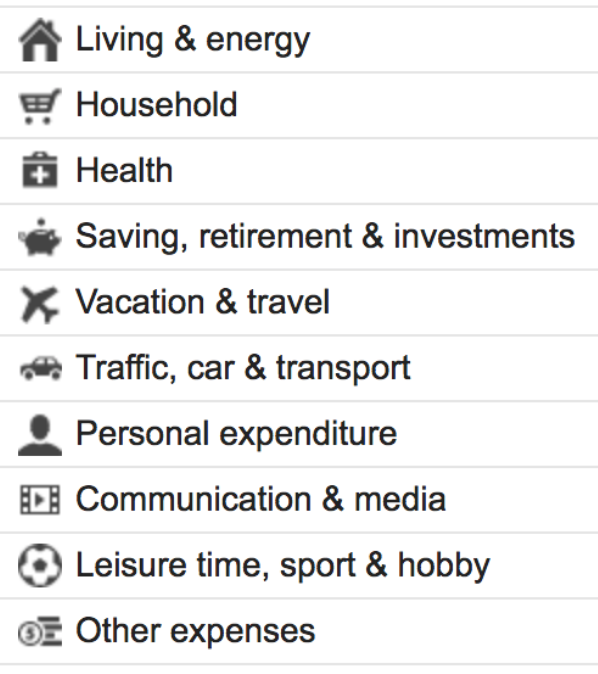
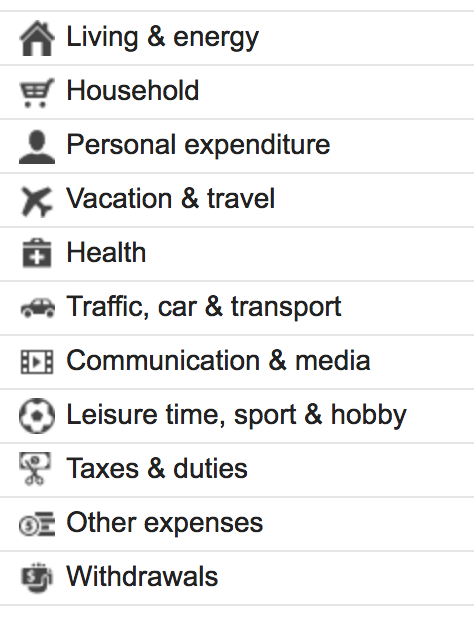
merge work from January 12 (#33)
* txs auto checkin

* txs auto checkin

* txs auto checkin

* update categories icons screenshot

* txs auto checkin

Changed region(s): [[0.0, 0.0, 1.0, 0.9838]]

diff --git a/02_Appendices/AppendixA_FinacialData.tex b/02_Appendices/AppendixA_FinacialData.tex
@@ -48,7 +48,6 @@ TODO: LOAD NEW UPDATED DATA!
 		    19/12/16 & UTUNERS.COM/BILL          UTUNERS.COM &       & CHF   & 38.4  &       & Communication \& media & Multimedia (music, video \& apps) \\
 		    19/12/16 & UTUNERS.COM/BILL          UTUNERS.COM &       & CHF   & 2.3   &       & Communication \& media & Multimedia (music, video \& apps) \\
 		    19/12/16 & AMAZING DE Marketplace    800-800-8000 &       & CHF   & 53.59 &       & Leisure time, sport \& hobby & Toys and hobby articles \\
-		    19/12/16 & SALARY PAYMENT & CH00 1111 2222 3333 4444 A & CHF   & 4500  &       & Income \& credits & Salary and sideline \\
 		    16/12/16 & Erste Bank Someplace CARD 12345678-0 1234 & CH00 1111 2222 3333 4444 A & CHF   & 454.24 & WITHDRAWAL ATM & Withdrawals & Bancomat \\
 		    14/12/16 & SUBWAY                   RANDOMCITY &       & CHF   & 8.95  &       & Personal expenditure & Food (snacks, restaurants and bars) \\
 		    14/12/16 & ANY KEBAB            RANDOMCITY &       & CHF   & 2.91  &       & Personal expenditure & Food (snacks, restaurants and bars) \\
@@ -68,7 +67,6 @@ TODO: LOAD NEW UPDATED DATA!
 		    09/12/16 & Stability CarSharing      Cloudcern 7 &       & CHF   & 24.9  &       & Vacation \& travel & Travel and flight costs \\
 		    09/12/16 & Coop-1234 Anyvillage CARD 12345678-0 1234 & CH00 1111 2222 3333 4444 A & CHF   & 5     & PAYMENT MAESTRO & Household & Food and beverage \\
 		    08/12/16 & Canteen Restaurant Office      MyCity &       & CHF   & 12.9  &       & Personal expenditure & Food (snacks, restaurants and bars) \\
-		    08/12/16 & Marmor AG - eCommerce     NeighbourCity &       & CHF   & 35.4  &       & Income \& credits & Refunds \\
 		    08/12/16 & TORGUARD                 8002008002 &       & CHF   & 9.1   &       & Communication \& media & Film, photo, electronic devices and accessories \\
 		    08/12/16 & GEEKHUB.COM  8PRK4        4144414441 &       & CHF   & 9.79  &       & Communication \& media & Film, photo, electronic devices and accessories \\
 		    08/12/16 & 8001 MYCITY SHOPVILLE CARD 14873883-0 1908 & CH00 1111 2222 3333 4444 A & CHF   & 148.2 & WITHDRAWAL ATM & Withdrawals & Bancomat \\
@@ -112,7 +110,6 @@ TODO: LOAD NEW UPDATED DATA!
 		    21/11/16 & SWEATCOM SCHWEIZ AG 3050 CAPITALCITY & CH00 1111 2222 3333 4444 A & CHF   & 167.4 & INTERNET/PHONE & Communication \& media & Telephone,  Internet and TV \\
 		    21/11/16 & Migros MM Anyvillage CARD 12345678-0 1234 & CH00 1111 2222 3333 4444 A & CHF   & 28.95 & PAYMENT MAESTRO & Household & Food and beverage \\
 		    18/11/16 & Randomplace Take Away     MyCity &       & CHF   & 10.6  &       & Personal expenditure & Food (snacks, restaurants and bars) \\
-		    18/11/16 & SALARY PAYMENT & CH00 1111 2222 3333 4444 A & CHF   & 4500  &       & Income \& credits & Salary and sideline \\
 		    17/11/16 & Migros MM Anyvillage    Anyvillage &       & CHF   & 13.75 &       & Household & Food and beverage \\
 		    17/11/16 & Coop-1234 Anyvillage    Anyvillage &       & CHF   & 8.2   &       & Household & Food and beverage \\
 		    16/11/16 & Canteen Restaurant Office      MyCity &       & CHF   & 10.8  &       & Personal expenditure & Food (snacks, restaurants and bars) \\
@@ -149,9 +146,6 @@ TODO: LOAD NEW UPDATED DATA!
 		    31/10/16 & SALDO TRANSACTION EXPENSES & CH00 1111 2222 3333 4444 A & CHF   & 0.2   &       & Other expenses & Banking services and charges \\
 		    31/10/16 & Migros MM Anyvillage CARD 12345678-0 1234 & CH00 1111 2222 3333 4444 A & CHF   & 43.4  & PAYMENT MAESTRO & Household & Food and beverage \\
 		    27/10/16 & GREENPEACE SCHWEIZ MYCITY & CH00 1111 2222 3333 4444 A & CHF   & 81    & GREEPNPEACE DONATION & Personal expenditure & Donations \\
-		    27/10/16 & FRIENDS NAME XYZ & CH00 1111 2222 3333 4444 A & CHF   & 91.53 & PAYBACK FRIEND XYZ & Income \& credits & Refunds \\
-		    27/10/16 & FRIENDS NAME XYZ & CH00 1111 2222 3333 4444 A & CHF   & 13.8  & PAYBACK FRIEND XYZ & Income \& credits & Refunds \\
-		    27/10/16 & FRIENDS NAME XYZ & CH00 1111 2222 3333 4444 A & CHF   & 56.2  & PAYBACK FRIEND XYZ & Income \& credits & Refunds \\
 		    27/10/16 & Coop-4455 Anyvillage CARD 12345678-0 1234 & CH00 1111 2222 3333 4444 A & CHF   & 18.55 & PAYMENT MAESTRO & Household & Food and beverage \\
 		    27/10/16 & Migros MM Anyvillage CARD 12345678-0 1234 & CH00 1111 2222 3333 4444 A & CHF   & 85.45 & PAYMENT MAESTRO & Household & Food and beverage \\
 		    25/10/16 & WORLD DUTY FREE WHISKINGTONWHISKINGTON &       & CHF   & 44.72 &       & Personal expenditure & Miscellaneous \\
@@ -178,7 +172,6 @@ TODO: LOAD NEW UPDATED DATA!
 		    19/10/16 & Coop-2238 Wint. St       MusterCity &       & CHF   & 15.55 &       & Household & Food and beverage \\
 		    19/10/16 & minitec Milkyway (Online) MyCity &       & CHF   & 91.44 &       & Communication \& media & Film, photo, electronic devices and accessories \\
 		    19/10/16 & PUNCHSTARTER I10 REINVE   9292929292 &       & CHF   & 71.26 &       & Leisure time, sport \& hobby & Toys and hobby articles \\
-		    19/10/16 & SALARY PAYMENT & CH00 1111 2222 3333 4444 A & CHF   & 4500  &       & Income \& credits & Salary and sideline \\
 		    19/10/16 & RANDOM FRIENDS ADRESS XYZ & CH00 1111 2222 3333 4444 A & CHF   & 278.9 & FLIGHT TICKET & Vacation \& travel & Miscellaneous \\
 		    19/10/16 & ONE CLUB PROWGE CARD 12345678-0 1234 & CH00 1111 2222 3333 4444 A & CHF   & 16.02 & PAYMENT MAESTRO & Personal expenditure & Food (snacks, restaurants and bars) \\
 		    19/10/16 & ONE CLUB PROWGE CARD 12345678-0 1234 & CH00 1111 2222 3333 4444 A & CHF   & 50.45 & PAYMENT MAESTRO & Personal expenditure & Food (snacks, restaurants and bars) \\
@@ -196,7 +189,6 @@ TODO: LOAD NEW UPDATED DATA!
 		    13/10/16 & Canteen Restaurant Office      MyCity &       & CHF   & 8.6   &       & Personal expenditure & Food (snacks, restaurants and bars) \\
 		    12/10/16 & Canteen Restaurant Office      MyCity &       & CHF   & 14.5  &       & Personal expenditure & Food (snacks, restaurants and bars) \\
 		    11/10/16 & Canteen Restaurant Office      MyCity &       & CHF   & 14.9  &       & Personal expenditure & Food (snacks, restaurants and bars) \\
-		    11/10/16 & CBA*ACRONIS              CLEVERBRIDGE. &       & CHF   & 34.75 &       & Income \& credits & Refunds \\
 		    11/10/16 & RANDOM FRIENDS ADRESS XYZ & CH00 1111 2222 3333 4444 A & CHF   & 93.1  & PAYBACK FRIEND XYZ & Other expenses & Repayments \\
 		    10/10/16 & Migros M Hauptbahnhof    MyCity &       & CHF   & 3.8   &       & Household & Food and beverage \\
 		    10/10/16 & Migros MM Downton Slipa   Downton &       & CHF   & 4.7   &       & Household & Food and beverage \\
@@ -207,7 +199,6 @@ TODO: LOAD NEW UPDATED DATA!
 		    10/10/16 & CBA*ACRONIS              CLEVERBRIDGE. &       & CHF   & 36.68 &       & Communication \& media & Software \\
 		    10/10/16 & PUNCHSTARTERCOM           9292929292 &       & CHF   & 42.15 &       & Leisure time, sport \& hobby & Toys and hobby articles \\
 		    10/10/16 & SEEBAY.CH/CC               888-777-6666 &       & CHF   & 5.58  &       & Taxes \& duties & Fees \\
-		    10/10/16 & FRIENDS NAME XYZ & CH00 1111 2222 3333 4444 A & CHF   & 37.6  & PAYBACK FRIEND XYZ & Income \& credits & Refunds \\
 		    10/10/16 & Coop-4455 Anyvillage CARD 12345678-0 1234 & CH00 1111 2222 3333 4444 A & CHF   & 30.95 & PAYMENT MAESTRO & Household & Food and beverage \\
 		    10/10/16 & Migros MM Anyvillage CARD 12345678-0 1234 & CH00 1111 2222 3333 4444 A & CHF   & 63.7  & PAYMENT MAESTRO & Household & Food and beverage \\
 		    07/10/16 & Randomplace Take Away     MyCity &       & CHF   & 10    &       & Personal expenditure & Food (snacks, restaurants and bars) \\
@@ -231,7 +222,6 @@ TODO: LOAD NEW UPDATED DATA!
 		    30/09/16 & Twint               MyCity &       & CHF   & 15.5  &       & Withdrawals & Bancomat \\
 		    30/09/16 & SALDO TRANSACTION EXPENSES & CH55 4444 6666 3333 7777 P & CHF   & 0.3   &       & Other expenses & Banking services and charges \\
 		    29/09/16 & Canteen Restaurant Office      MyCity &       & CHF   & 8.35  &       & Personal expenditure & Food (snacks, restaurants and bars) \\
-		    29/09/16 & REPAYMENT AG DIFFERENTSTREET 12 1234 NOPLACE & CH00 1111 2222 3333 4444 A & CHF   & 556.6 & PAYBACK EXPENSES & Income \& credits & Refunds \\
 		    29/09/16 & Marmor AG - 228 CARD 12345678-0 1234 & CH00 1111 2222 3333 4444 A & CHF   & 75    & PAYMENT MAESTRO & Personal expenditure & Clothing, shoes and accessories \\
 		    28/09/16 & Canteen Restaurant Office      MyCity &       & CHF   & 7.95  &       & Personal expenditure & Food (snacks, restaurants and bars) \\
 		    28/09/16 & Coop-1234 Anyvillage    Anyvillage &       & CHF   & 24.8  &       & Household & Food and beverage \\
@@ -260,14 +250,12 @@ TODO: LOAD NEW UPDATED DATA!
 		    19/09/16 & Migros M Hauptbahnhof    MyCity &       & CHF   & 5.75  &       & Household & Food and beverage \\
 		    19/09/16 & Coop-1234 Anyvillage    Anyvillage &       & CHF   & 32.95 &       & Household & Food and beverage \\
 		    19/09/16 & PUNCHSTARTER THE WORLDS   9292929292 &       & CHF   & 49.89 &       & Leisure time, sport \& hobby & Toys and hobby articles \\
-		    19/09/16 & SALARY PAYMENT & CH00 1111 2222 3333 4444 A & CHF   & 4500  &       & Income \& credits & Salary and sideline \\
 		    19/09/16 & Migros MM Anyvillage CARD 12345678-0 1234 & CH00 1111 2222 3333 4444 A & CHF   & 45.8  & PAYMENT MAESTRO & Household & Food and beverage \\
 		    19/09/16 & Restaurant Freihof CARD 12345678-0 1234 & CH00 1111 2222 3333 4444 A & CHF   & 24.7  & PAYMENT MAESTRO & Personal expenditure & Food (snacks, restaurants and bars) \\
 		    16/09/16 & Canteen Restaurant Office      MyCity &       & CHF   & 13.1  &       & Personal expenditure & Food (snacks, restaurants and bars) \\
 		    16/09/16 & Migros M Otherplace   MyCity &       & CHF   & 11    &       & Household & Food and beverage \\
 		    15/09/16 & Canteen Restaurant Office      MyCity &       & CHF   & 11.6  &       & Personal expenditure & Food (snacks, restaurants and bars) \\
 		    14/09/16 & Canteen Restaurant Office      MyCity &       & CHF   & 13.05 &       & Personal expenditure & Food (snacks, restaurants and bars) \\
-		    14/09/16 & RANDOM FRIENDS ADRESS XYZ & CH00 1111 2222 3333 4444 A & CHF   & 253.66 & SEEBAY & Income \& credits & Sale of property \\
 		    13/09/16 & Canteen Restaurant Office      MyCity &       & CHF   & 17    &       & Personal expenditure & Food (snacks, restaurants and bars) \\
 		    12/09/16 & Migros M Hauptbahnhof    MyCity &       & CHF   & 4.9   &       & Household & Food and beverage \\
 		    12/09/16 & Coop-1177 BS Bahnh       NeighbourCity &       & CHF   & 19.05 &       & Household & Food and beverage \\
@@ -325,7 +313,6 @@ TODO: LOAD NEW UPDATED DATA!
 		    22/08/16 & Migros MM Anyvillage CARD 12345678-0 1234 & CH00 1111 2222 3333 4444 A & CHF   & 70.95 & PAYMENT MAESTRO & Household & Food and beverage \\
 		    22/08/16 & Coop-4455 Anyvillage CARD 12345678-0 1234 & CH00 1111 2222 3333 4444 A & CHF   & 32.4  & PAYMENT MAESTRO & Household & Food and beverage \\
 		    19/08/16 & Canteen Restaurant Office      MyCity &       & CHF   & 11.4  &       & Personal expenditure & Food (snacks, restaurants and bars) \\
-		    19/08/16 & SALARY PAYMENT & CH00 1111 2222 3333 4444 A & CHF   & 4500  &       & Income \& credits & Salary and sideline \\
 		    18/08/16 & Canteen Restaurant Office      MyCity &       & CHF   & 5.95  &       & Personal expenditure & Food (snacks, restaurants and bars) \\
 		    17/08/16 & Canteen Restaurant Office      MyCity &       & CHF   & 10.1  &       & Personal expenditure & Food (snacks, restaurants and bars) \\
 		    17/08/16 & D-Vino Weinbars AG       MyCity &       & CHF   & 36.2  &       & Personal expenditure & Food (snacks, restaurants and bars) \\
@@ -344,17 +331,14 @@ TODO: LOAD NEW UPDATED DATA!
 		    08/08/16 & Stability CarSharing      Cloudcern 7 &       & CHF   & 25.1  &       & Vacation \& travel & Travel and flight costs \\
 		    08/08/16 & GEEKHUB.COM  8PRK4        4141414141 &       & CHF   & 6.1   &       & Communication \& media & Film, photo, electronic devices and accessories \\
 		    08/08/16 & AE COM WEB PURCH         HOOFDOORP &       & CHF   & 297.52 &       & Personal expenditure & Clothing, shoes and accessories \\
-		    08/08/16 & RANDOM PERSON ANYSTREET 15 0000 NOPLACE & CH00 1111 2222 3333 4444 A & CHF   & 126   & SEEBAY & Income \& credits & Sale of property \\
 		    08/08/16 & BANK AG (CREDIT CARDS) SOMESTREET 11 9000 ACITY & CH00 1111 2222 3333 4444 A & CHF   & 638.5 & CREDIT CARD & Other expenses & Credit card invoice and fees \\
 		    08/08/16 & Coop-4455 Anyvillage CARD 12345678-0 1234 & CH00 1111 2222 3333 4444 A & CHF   & 35.8  & PAYMENT MAESTRO & Household & Food and beverage \\
 		    08/08/16 & Migros MM Anyvillage CARD 12345678-0 1234 & CH00 1111 2222 3333 4444 A & CHF   & 118.75 & PAYMENT MAESTRO & Household & Food and beverage \\
 		    08/08/16 & Restaurant Freihof CARD 12345678-0 1234 & CH00 1111 2222 3333 4444 A & CHF   & 21.6  & PAYMENT MAESTRO & Personal expenditure & Food (snacks, restaurants and bars) \\
 		    05/08/16 & Coop-1234 Anyvillage    Anyvillage &       & CHF   & 10    &       & Household & Food and beverage \\
 		    05/08/16 & Randomplace Take Away     MyCity &       & CHF   & 12.6  &       & Personal expenditure & Food (snacks, restaurants and bars) \\
-		    05/08/16 & CANTON TAX OFFICE DIRECT STATE TAXES MYCITY & CH00 1111 2222 3333 4444 A & CHF   & 271.8 & PAYBACK STATE TAXES & Income \& credits & Refunds \\
 		    05/08/16 & Winterlab Letzipark CARD 12345678-0 1234 & CH00 1111 2222 3333 4444 A & CHF   & 379.7 & PAYMENT MAESTRO & Health & Medical services  \\
 		    04/08/16 & Randomplace Take Away     MyCity &       & CHF   & 12.6  &       & Personal expenditure & Food (snacks, restaurants and bars) \\
-		    04/08/16 & AMAZING.DE PAYMENTS       AMAZING.DE &       & CHF   & 0.03  &       & Income \& credits & Refunds \\
 		    04/08/16 & MUNICIPAL ADMINISTRATION 0123 ANYPLACE & CH55 4444 6666 3333 7777 P & CHF   & 529.75 & STATE TAXES & Taxes \& duties & Community and cantonal tax \\
 		    03/08/16 & Randomplace Take Away     MyCity &       & CHF   & 9.2   &       & Personal expenditure & Food (snacks, restaurants and bars) \\
 		    03/08/16 & minitec Milkyway (Online) MyCity &       & CHF   & 25.38 &       & Communication \& media & Film, photo, electronic devices and accessories \\
@@ -383,7 +367,6 @@ TODO: LOAD NEW UPDATED DATA!
 		    20/07/16 & Migros MM Anyvillage CARD 12345678-0 1234 & CH00 1111 2222 3333 4444 A & CHF   & 37.8  & PAYMENT MAESTRO & Household & Food and beverage \\
 		    19/07/16 & Canteen Restaurant Office      MyCity &       & CHF   & 23.1  &       & Personal expenditure & Food (snacks, restaurants and bars) \\
 		    19/07/16 & DREAMGAMES.COM           404-012-1985 &       & CHF   & 4.2   &       & Leisure time, sport \& hobby & Going out, culture and cinema \\
-		    19/07/16 & SALARY PAYMENT & CH00 1111 2222 3333 4444 A & CHF   & 4500  &       & Income \& credits & Salary and sideline \\
 		    18/07/16 & Canteen Restaurant Office      MyCity &       & CHF   & 6.7   &       & Personal expenditure & Food (snacks, restaurants and bars) \\
 		    18/07/16 & Migros MM Anyvillage CARD 12345678-0 1234 & CH00 1111 2222 3333 4444 A & CHF   & 41.05 & PAYMENT MAESTRO & Household & Food and beverage \\
 		    15/07/16 & 8004 ZH-ALISPLACE CARD 12345678-0 1234 & CH00 1111 2222 3333 4444 A & CHF   & 194.4 & WITHDRAWAL ATM & Withdrawals & Bancomat \\
@@ -395,7 +378,6 @@ TODO: LOAD NEW UPDATED DATA!
 		    11/07/16 & Migros MM Anyvillage CARD 12345678-0 1234 & CH00 1111 2222 3333 4444 A & CHF   & 83.7  & PAYMENT MAESTRO & Household & Food and beverage \\
 		    08/07/16 & Canteen Restaurant Office      MyCity &       & CHF   & 11.5  &       & Personal expenditure & Food (snacks, restaurants and bars) \\
 		    08/07/16 & GEEKHUB.COM  8PRK4        4141414141 &       & CHF   & 8.27  &       & Communication \& media & Film, photo, electronic devices and accessories \\
-		    07/07/16 & PC COMPUTERS AG RAMSTREET 001 404 NO PLACE & CH00 1111 2222 3333 4444 A & CHF   & 619.9 & PAYBACK STORE XYZ & Income \& credits & Refunds \\
 		    07/07/16 & BANK AG (CREDIT CARDS) SOMESTREET 11 9000 ACITY & CH00 1111 2222 3333 4444 A & CHF   & 1718.5 & CREDIT CARD & Other expenses & Credit card invoice and fees \\
 		    06/07/16 & Coop-4073 Downton Sliho   Downton &       & CHF   & 3.85  &       & Household & Food and beverage \\
 		    05/07/16 & Canteen Restaurant Office      MyCity &       & CHF   & 17.1  &       & Personal expenditure & Food (snacks, restaurants and bars) \\
@@ -434,9 +416,7 @@ TODO: LOAD NEW UPDATED DATA!
 		    17/06/16 & UTUNERS.COM/BILL          UTUNERS.COM &       & CHF   & 9     &       & Communication \& media & Multimedia (music, video \& apps) \\
 		    17/06/16 & minitec Milkyway (Online) MyCity &       & CHF   & 27.99 &       & Communication \& media & Film, photo, electronic devices and accessories \\
 		    17/06/16 & DRI*HTC CORPORA          SHANNON, CO. &       & CHF   & 940.38 &       & Communication \& media & Film, photo, electronic devices and accessories \\
-		    17/06/16 & SALARY PAYMENT & CH00 1111 2222 3333 4444 A & CHF   & 4500  &       & Income \& credits & Salary and sideline \\
 		    16/06/16 & Migros M Hauptbahnhof    MyCity &       & CHF   & 7.6   &       & Household & Food and beverage \\
-		    16/06/16 & minitec Milkyway (Online) MyCity &       & CHF   & 748.97 &       & Income \& credits & Refunds \\
 		    16/06/16 & UPPER BV                  HELP.UPPER.COM &       & CHF   & 31.7  &       & Traffic, car \& transport & Public transport (tickets \& subscriptions) \\
 		    15/06/16 & Migros M Hauptbahnhof    MyCity &       & CHF   & 3.9   &       & Household & Food and beverage \\
 		    15/06/16 & Coop-4073 Downton Sliho   Downton &       & CHF   & 11    &       & Household & Food and beverage \\
@@ -450,7 +430,6 @@ TODO: LOAD NEW UPDATED DATA!
 		    09/06/16 & Migros MM Anyvillage CARD 12345678-0 1234 & CH00 1111 2222 3333 4444 A & CHF   & 18.35 & PAYMENT MAESTRO & Household & Food and beverage \\
 		    08/06/16 & Canteen Restaurant Office      MyCity &       & CHF   & 13    &       & Personal expenditure & Food (snacks, restaurants and bars) \\
 		    08/06/16 & Coop Uncommonstr. 55   MyCity &       & CHF   & 3.55  &       & Household & Food and beverage \\
-		    08/06/16 & PC COMPUTERS AG RAMSTREET 001 404 NO PLACE & CH00 1111 2222 3333 4444 A & CHF   & 19    & PAYBACK STORE XYZ & Income \& credits & Refunds \\
 		    07/06/16 & Randomplace Take Away     MyCity &       & CHF   & 10.2  &       & Personal expenditure & Food (snacks, restaurants and bars) \\
 		    07/06/16 & Coop Uncommonstr. 55   MyCity &       & CHF   & 4.6   &       & Household & Food and beverage \\
 		    07/06/16 & UTUNERS.COM/BILL          UTUNERS.COM &       & CHF   & 8.8   &       & Communication \& media & Multimedia (music, video \& apps) \\
@@ -458,7 +437,6 @@ TODO: LOAD NEW UPDATED DATA!
 		    06/06/16 & AMAZING.DE PAYMENTS       AMAZING.DE &       & CHF   & 20.63 &       & Leisure time, sport \& hobby & Miscellaneous \\
 		    06/06/16 & Uber BV                  help.upper.com &       & CHF   & 41.82 &       & Traffic, car \& transport & Public transport (tickets \& subscriptions) \\
 		    06/06/16 & FRIENDS NAME XYZ & CH00 1111 2222 3333 4444 A & CHF   & 182.1 & WEDDING GIFT & Personal expenditure & Gifts \\
-		    06/06/16 & HEALTH INSURANCE AG NUMVERSTREET 101 0101 PLACINGTON & CH00 1111 2222 3333 4444 A & CHF   & 49.6  & PAYBACK HEALTH INSURANCE & Income \& credits & Refunds \\
 		    06/06/16 & Migros MM Anyvillage CARD 12345678-0 1234 & CH00 1111 2222 3333 4444 A & CHF   & 54.85 & PAYMENT MAESTRO & Household & Food and beverage \\
 		    03/06/16 & Canteen Restaurant Office      MyCity &       & CHF   & 11.1  &       & Personal expenditure & Food (snacks, restaurants and bars) \\
 		    02/06/16 & Migros M Hauptbahnhof    MyCity &       & CHF   & 2.8   &       & Household & Food and beverage \\
@@ -477,7 +455,6 @@ TODO: LOAD NEW UPDATED DATA!
 		    27/05/16 & SWEATCOM SCHWEIZ AG 3050 CAPITALCITY & CH00 1111 2222 3333 4444 A & CHF   & 220.3 & INTERNET/PHONE & Communication \& media & Telephone,  Internet and TV \\
 		    26/05/16 & Migros M Hauptbahnhof    MyCity &       & CHF   & 1.9   &       & Household & Food and beverage \\
 		    25/05/16 & Canteen Restaurant Office      MyCity &       & CHF   & 7.2   &       & Personal expenditure & Food (snacks, restaurants and bars) \\
-		    25/05/16 & FRIENDS NAME XYZ & CH00 1111 2222 3333 4444 A & CHF   & 45.32 & PAYBACK FRIEND XYZ & Income \& credits & Refunds \\
 		    24/05/16 & Canteen Restaurant Office      MyCity &       & CHF   & 11.95 &       & Personal expenditure & Food (snacks, restaurants and bars) \\
 		    24/05/16 & UTUNERS.COM/BILL          UTUNERS.COM &       & CHF   & 1.2   &       & Communication \& media & Multimedia (music, video \& apps) \\
 		    24/05/16 & AMAZING *Mktplce EU-DE    AMAZING.DE &       & CHF   & 15.29 &       & Communication \& media & Film, photo, electronic devices and accessories \\
@@ -489,7 +466,6 @@ TODO: LOAD NEW UPDATED DATA!
 		    23/05/16 & WWW.STARTICKET.CH        MYCITY &       & CHF   & 252.5 &       & Leisure time, sport \& hobby & Going out, culture and cinema \\
 		    23/05/16 & LANDLORD AG 8021 MYCITY & CH00 1111 2222 3333 4444 A & CHF   & 1800  & RENT (STANDING ORDER) & Living \& energy & Rent and mortgage interest \\
 		    23/05/16 & SWISS INSURANCE SOMEPATH 13 8021 MYCITY & CH00 1111 2222 3333 4444 A & CHF   & 324.1 & PROPERTY INSUANCE & Living \& energy & Building and property insurance \\
-		    23/05/16 & FRIENDS NAME XYZ & CH00 1111 2222 3333 4444 A & CHF   & 151.9 & PAYBACK FRIEND XYZ & Income \& credits & Refunds \\
 		    23/05/16 & Migros MM Anyvillage CARD 12345678-0 1234 & CH00 1111 2222 3333 4444 A & CHF   & 42.65 & PAYMENT MAESTRO & Household & Food and beverage \\
 		    23/05/16 & Coop-4455 Anyvillage CARD 12345678-0 1234 & CH00 1111 2222 3333 4444 A & CHF   & 48.6  & PAYMENT MAESTRO & Household & Food and beverage \\
 		    20/05/16 & Canteen Restaurant Office      MyCity &       & CHF   & 13.6  &       & Personal expenditure & Food (snacks, restaurants and bars) \\
@@ -498,15 +474,11 @@ TODO: LOAD NEW UPDATED DATA!
 		    20/05/16 & UTUNERS.COM/BILL          UTUNERS.COM &       & CHF   & 7.4   &       & Communication \& media & Multimedia (music, video \& apps) \\
 		    19/05/16 & Migros M Hauptbahnhof    MyCity &       & CHF   & 2     &       & Household & Food and beverage \\
 		    19/05/16 & Coop-1234 Anyvillage    Anyvillage &       & CHF   & 18.6  &       & Household & Food and beverage \\
-		    19/05/16 & Uber BV                  help.upper.com &       & CHF   & 2.12  &       & Income \& credits & Refunds \\
-		    19/05/16 & SALARY PAYMENT & CH00 1111 2222 3333 4444 A & CHF   & 4500  &       & Income \& credits & Salary and sideline \\
 		    19/05/16 & Migros MM Anyvillage CARD 12345678-0 1234 & CH00 1111 2222 3333 4444 A & CHF   & 39.95 & PAYMENT MAESTRO & Household & Food and beverage \\
 		    18/05/16 & Canteen Restaurant Office      MyCity &       & CHF   & 7.85  &       & Personal expenditure & Food (snacks, restaurants and bars) \\
 		    17/05/16 & Uber BV                  help.upper.com &       & CHF   & 22.54 &       & Traffic, car \& transport & Public transport (tickets \& subscriptions) \\
 		    17/05/16 & Uber BV                  help.upper.com &       & CHF   & 21.99 &       & Traffic, car \& transport & Public transport (tickets \& subscriptions) \\
-		    17/05/16 & VN 12345678     123456S1 STOCKHOLDER AG & CH00 1111 2222 3333 4444 A & CHF   & 65    & DIVIDENDS FROM STOCK & Income \& credits & Capital revenues (interest, dividends \& earnings) \\
 		    17/05/16 & ENHU0140 CARD 12345678-0 1234 & CH00 1111 2222 3333 4444 A & CHF   & 267.48 & WITHDRAWAL ATM & Withdrawals & Bancomat \\
-		    17/05/16 & EQUATEX AG 8048 MYCITY & CH00 1111 2222 3333 4444 A & CHF   & 84.7  & DIVIDENDS FROM STOCK & Income \& credits & Capital revenues (interest, dividends \& earnings) \\
 		    16/05/16 & BE'CSISZELET VENDE'GLO CARD 12345678-0 1234 & CH00 1111 2222 3333 4444 A & CHF   & 82.26 & PAYMENT MAESTRO & Personal expenditure & Food (snacks, restaurants and bars) \\
 		    16/05/16 & ENHU0096 CARD 12345678-0 1234 & CH00 1111 2222 3333 4444 A & CHF   & 188.21 & WITHDRAWAL ATM & Withdrawals & Bancomat \\
 		    16/05/16 & Walkthrough Level 2 ZR CARD 12345678-0 1234 & CH00 1111 2222 3333 4444 A & CHF   & 78    & PAYMENT MAESTRO & Personal expenditure & Miscellaneous \\
@@ -542,7 +514,6 @@ TODO: LOAD NEW UPDATED DATA!
 		    28/04/16 & Migros M Hauptbahnhof    MyCity &       & CHF   & 2.5   &       & Household & Food and beverage \\
 		    27/04/16 & Canteen Restaurant Office      MyCity &       & CHF   & 12.4  &       & Personal expenditure & Food (snacks, restaurants and bars) \\
 		    27/04/16 & 12345 avec.Anyvillage   Anyvillage &       & CHF   & 4.8   &       & Household & Food and beverage \\
-		    27/04/16 & FRIENDS NAME XYZ & CH00 1111 2222 3333 4444 A & CHF   & 49.7  & PAYBACK FRIEND XYZ & Income \& credits & Refunds \\
 		    26/04/16 & Coop-1234 Anyvillage    Anyvillage &       & CHF   & 25.2  &       & Household & Food and beverage \\
 		    26/04/16 & Randomplace Take Away     MyCity &       & CHF   & 15.5  &       & Personal expenditure & Food (snacks, restaurants and bars) \\
 		    25/04/16 & Canteen Restaurant Office      Opfikon &       & CHF   & 12.6  &       & Personal expenditure & Food (snacks, restaurants and bars) \\
@@ -550,7 +521,6 @@ TODO: LOAD NEW UPDATED DATA!
 		    25/04/16 & UTUNERS.COM/BILL          UTUNERS.COM &       & CHF   & 0.5   &       & Communication \& media & Multimedia (music, video \& apps) \\
 		    25/04/16 & Drugstore Someplace      Cloudcern &       & CHF   & 126.8 &       & Personal expenditure & Personal hygiene and wellness \\
 		    25/04/16 & POWERPWAY C/O MF FINANCE GMBH NOT FOUND & CH00 1111 2222 3333 4444 A & CHF   & 39.25 & COMPUTER HARDWARE & Other expenses & Loan and debt interest \\
-		    25/04/16 & FRIENDS NAME XYZ & CH00 1111 2222 3333 4444 A & CHF   & 108.9 & PAYBACK FRIEND XYZ & Income \& credits & Refunds \\
 		    25/04/16 & Migros MM Anyvillage CARD 12345678-0 1234 & CH00 1111 2222 3333 4444 A & CHF   & 13.65 & PAYMENT MAESTRO & Household & Food and beverage \\
 		    25/04/16 & Migros MM Anyvillage CARD 12345678-0 1234 & CH00 1111 2222 3333 4444 A & CHF   & 52    & PAYMENT MAESTRO & Household & Food and beverage \\
 		    22/04/16 & Randomplace Take Away     MyCity &       & CHF   & 11.3  &       & Personal expenditure & Food (snacks, restaurants and bars) \\
@@ -563,7 +533,6 @@ TODO: LOAD NEW UPDATED DATA!
 		    21/04/16 & ELECTRICITY COMPANY OF ZH, 8000 MYCITY & CH00 1111 2222 3333 4444 A & CHF   & 127.4 & ELECTRICITY & Living \& energy & Electricity and gas \\
 		    20/04/16 & Randomplace Take Away     MyCity &       & CHF   & 18.4  &       & Personal expenditure & Food (snacks, restaurants and bars) \\
 		    19/04/16 & Twint               MyCity &       & CHF   & 154.7 &       & Withdrawals & Bancomat \\
-		    19/04/16 & SALARY PAYMENT & CH00 1111 2222 3333 4444 A & CHF   & 4500  &       & Income \& credits & Salary and sideline \\
 		    19/04/16 & Zeus Gastro GmbH CARD 12345678-0 1234 & CH00 1111 2222 3333 4444 A & CHF   & 42.5  & PAYMENT MAESTRO & Personal expenditure & Food (snacks, restaurants and bars) \\
 		    18/04/16 & Randomplace Take Away     MyCity &       & CHF   & 9.2   &       & Personal expenditure & Food (snacks, restaurants and bars) \\
 		    18/04/16 & UPPER BV                  HELP.UPPER.COM &       & CHF   & 9.5   &       & Traffic, car \& transport & Public transport (tickets \& subscriptions) \\
@@ -605,7 +574,6 @@ TODO: LOAD NEW UPDATED DATA!
 		    28/03/16 & Migros MM Anyvillage CARD 12345678-0 1234 & CH00 1111 2222 3333 4444 A & CHF   & 96.1  & PAYMENT MAESTRO & Household & Food and beverage \\
 		    28/03/16 & Coop-4455 Anyvillage CARD 12345678-0 1234 & CH00 1111 2222 3333 4444 A & CHF   & 12.75 & PAYMENT MAESTRO & Household & Food and beverage \\
 		    24/03/16 & UTUNERS.COM/BILL          UTUNERS.COM &       & CHF   & 0.9   &       & Communication \& media & Multimedia (music, video \& apps) \\
-		    24/03/16 & RANDOM FRIENDS ADRESS XYZ & CH00 1111 2222 3333 4444 A & CHF   & 123.2 & BIRTHDAY GIFT & Income \& credits & Gifts and inheritance \\
 		    23/03/16 & Canteen Restaurant Office      MyCity &       & CHF   & 8.3   &       & Personal expenditure & Food (snacks, restaurants and bars) \\
 		    23/03/16 & UTUNERS.COM/BILL          UTUNERS.COM &       & CHF   & 12.2  &       & Communication \& media & Multimedia (music, video \& apps) \\
 		    22/03/16 & Canteen Restaurant Office      MyCity &       & CHF   & 11.4  &       & Personal expenditure & Food (snacks, restaurants and bars) \\
@@ -622,7 +590,6 @@ TODO: LOAD NEW UPDATED DATA!
 		    21/03/16 & BILLAG SA 1701 FRIBOURG & CH55 4444 6666 3333 7777 P & CHF   & 557.4 & BILLAG & Communication \& media & Radio and television fees \\
 		    21/03/16 & Migros MM Anyvillage CARD 12345678-0 1234 & CH00 1111 2222 3333 4444 A & CHF   & 109.45 & PAYMENT MAESTRO & Household & Food and beverage \\
 		    18/03/16 & Canteen Restaurant Office      MyCity &       & CHF   & 10.7  &       & Personal expenditure & Food (snacks, restaurants and bars) \\
-		    18/03/16 & SALARY PAYMENT & CH00 1111 2222 3333 4444 A & CHF   & 4500  &       & Income \& credits & Salary and sideline \\
 		    17/03/16 & minitec Milkyway (Online) MyCity &       & CHF   & 14.91 &       & Communication \& media & Film, photo, electronic devices and accessories \\
 		    17/03/16 & 9484 - Restaurant CS Pia CARD 12345678-0 1234 & CH00 1111 2222 3333 4444 A & CHF   & 13.8  & PAYMENT MAESTRO & Personal expenditure & Food (snacks, restaurants and bars) \\
 		    16/03/16 & Migros M Hauptbahnhof    MyCity &       & CHF   & 4.6   &       & Household & Food and beverage \\
@@ -643,7 +610,6 @@ TODO: LOAD NEW UPDATED DATA!
 		    07/03/16 & Coop-4455 Anyvillage CARD 12345678-0 1234 & CH00 1111 2222 3333 4444 A & CHF   & 12.45 & PAYMENT MAESTRO & Household & Food and beverage \\
 		    07/03/16 & BANK ATM 1 CARD 12345678-0 1234 & CH00 1111 2222 3333 4444 A & CHF   & 330.6 & WITHDRAWAL ATM & Withdrawals & Bancomat \\
 		    04/03/16 & Randomplace Take Away     MyCity &       & CHF   & 10.7  &       & Personal expenditure & Food (snacks, restaurants and bars) \\
-		    03/03/16 & REPAYMENT AG DIFFERENTSTREET 12 1234 NOPLACE & CH00 1111 2222 3333 4444 A & CHF   & 645.2 & PAYBACK EXPENSES & Income \& credits & Refunds \\
 		    02/03/16 & Canteen Restaurant Office      MyCity &       & CHF   & 6.1   &       & Personal expenditure & Food (snacks, restaurants and bars) \\
 		    02/03/16 & Xsolla *Twitch           800-800800 &       & CHF   & 5.25  &       & Leisure time, sport \& hobby & Going out, culture and cinema \\
 		    01/03/16 & Canteen Restaurant Office      MyCity &       & CHF   & 11.6  &       & Personal expenditure & Food (snacks, restaurants and bars) \\
@@ -668,7 +634,6 @@ TODO: LOAD NEW UPDATED DATA!
 		    22/02/16 & LANDLORD AG 8021 MYCITY & CH00 1111 2222 3333 4444 A & CHF   & 1800  & RENT (STANDING ORDER) & Living \& energy & Rent and mortgage interest \\
 		    22/02/16 & Migros MM Anyvillage CARD 12345678-0 1234 & CH00 1111 2222 3333 4444 A & CHF   & 52.25 & PAYMENT MAESTRO & Household & Food and beverage \\
 		    19/02/16 & Canteen Restaurant Office      MyCity &       & CHF   & 8     &       & Personal expenditure & Food (snacks, restaurants and bars) \\
-		    19/02/16 & SALARY PAYMENT & CH00 1111 2222 3333 4444 A & CHF   & 4500  &       & Income \& credits & Salary and sideline \\
 		    19/02/16 & WEHRPFLICHTERSATZVERW. DES KT. ZH, 8090 MYCITY & CH55 4444 6666 3333 7777 P & CHF   & 419.8 & MILITARY EXPENSES & Taxes \& duties & Military exemption tax \\
 		    17/02/16 & Canteen Restaurant Office      MyCity &       & CHF   & 10.9  &       & Personal expenditure & Food (snacks, restaurants and bars) \\
 		    17/02/16 & CANSTREAM ONLINE SHOP    Nodikon &       & CHF   & 99.8  &       & Personal expenditure & Clothing, shoes and accessories \\
@@ -717,10 +682,8 @@ TODO: LOAD NEW UPDATED DATA!
 		    21/01/16 & BANK AG (CREDIT CARDS) SOMESTREET 11 9000 ACITY & CH00 1111 2222 3333 4444 A & CHF   & 1268.85 & CREDIT CARD & Other expenses & Credit card invoice and fees \\
 		    21/01/16 & SWEATCOM SCHWEIZ AG 3050 CAPITALCITY & CH00 1111 2222 3333 4444 A & CHF   & 164.1 & INTERNET/PHONE & Communication \& media & Telephone,  Internet and TV \\
 		    21/01/16 & ELECTRICITY COMPANY OF ZH, 8000 MYCITY & CH00 1111 2222 3333 4444 A & CHF   & 95.2  & ELECTRICITY & Living \& energy & Electricity and gas \\
-		    21/01/16 & FRIENDS NAME XYZ & CH00 1111 2222 3333 4444 A & CHF   & 9.1   & PAYBACK FRIEND XYZ & Income \& credits & Refunds \\
 		    21/01/16 & FRIENDS NAME XYZ & CH00 1111 2222 3333 4444 A & CHF   & 588.9 & FLIGHT TICKET & Vacation \& travel & Travel and flight costs \\
 		    19/01/16 & Canteen Restaurant Office      MyCity &       & CHF   & 14.6  &       & Personal expenditure & Food (snacks, restaurants and bars) \\
-		    19/01/16 & SALARY PAYMENT & CH00 1111 2222 3333 4444 A & CHF   & 4500  &       & Income \& credits & Salary and sideline \\
 		    18/01/16 & Canteen Restaurant Office      MyCity &       & CHF   & 10.45 &       & Personal expenditure & Food (snacks, restaurants and bars) \\
 		    18/01/16 & VOG.COM                  NICOSIA &       & CHF   & 1.67  &       & Communication \& media & Multimedia (music, video \& apps) \\
 		    18/01/16 & UTUNERS.COM/BILL          UTUNERS.COM &       & CHF   & 6.1   &       & Communication \& media & Multimedia (music, video \& apps) \\

diff --git a/01_Chapters/04_Suggestion.tex b/01_Chapters/04_Suggestion.tex
@@ -72,7 +72,7 @@ The data set that is used for this thesis is shown in Appendix \ref{AppendixA} a
 In order to provided an added value to the user, further quality of life features such as direct access to the underlying transactions, the filtering of individual categories, or the display of a (spending) trend are considered. They support the main functionality of data exploration by rendering certain tasks easier and more convenient for the user. Due to this supporting aspect, this is considered as a \gls{sdg}.
 \begin{itemize}[noitemsep,nolistsep]
 	\item \textbf{\gls{sdg} \arabic{SubDesignGoalCounter}:} The design includes new quality-of-life features \newline
-	\textit{Example: Direct access to underlying transactions, filtering of individual (sub-)categories, or the display of a (spending) trend-line}
+	\textit{Example: Direct access to underlying transactions, filtering of individual categories, or the display of a (spending) trend-line}
 	\stepcounter{SubDesignGoalCounter}
 \end{itemize}
 
@@ -143,9 +143,9 @@ This mantra already clearly distinguishes between to main views: overview and de
 	\item \textbf{View \arabic{ViewCounter}:} Selection of different month/year
 	\stepcounter{ViewCounter}
 \end{itemize}
-The next main task from \gls{vism} 2.0 which is also part of the original mantra is about \textit{Filtering}, which in this (data) context can be applied to the different main and subcategories as shown in Table \ref{tbl:financialcategories} in Chapter \ref{ChapterIntroduction}. To further adhere to the \textit{Multi View} task, the filtering is put in an additional view to not interfere with the actual data visualisation.
+The next main task from \gls{vism} 2.0 which is also part of the original mantra is about \textit{Filtering}, which in this (data) context can be applied to the different main categories as shown in Table \ref{tbl:financialcategories} in Chapter \ref{ChapterIntroduction}. To further adhere to the \textit{Multi View} task, the filtering is put in an additional view to not interfere with the actual data visualisation.
 \begin{itemize}[noitemsep,nolistsep]
-	\item \textbf{View \arabic{ViewCounter}:} Filtering of main and subcategories
+	\item \textbf{View \arabic{ViewCounter}:} Filtering of main categories
 	\stepcounter{ViewCounter}
 \end{itemize}
 
@@ -319,7 +319,7 @@ Since the filtering for the categories is applied on the selected data (compared
 		\caption[Mapping of icons to categories in UBS e-banking demo]{Mapping of icons to categories in UBS e-banking demo \citep{UBSAG2016}}
 		\label{fig:categoriesicons}
 	\end{center}
-\end{figure}
+\end{figure} \newline
 In relation to the research done by \cite{Jamieson2007} that showed the effectiveness of familiar 3D objects for \gls{vr}, these icons can also be represented as 3D objects on a table or similar in front of the user. Depending on whether a certain category/object is enabled for the filtering, its colour can change from e.g. green (enabled) to grey (disabled), similar to how this is done by \cite{LeapMotion2016} in their demo 'Geometric' as shown in Figure \ref{fig:leapmotiongeometric} where the right-most button is active (yellow) and the other two are inactive (grey).
 \begin{figure}[h]
 	\begin{center}

diff --git a/01_Chapters/07_Conclusion.tex b/01_Chapters/07_Conclusion.tex
@@ -52,3 +52,4 @@ tbd
 Include Support Tasks from VISM
 data forest for individual transactions
 select multiple months/days for the list of transactions
+include sub-categories
